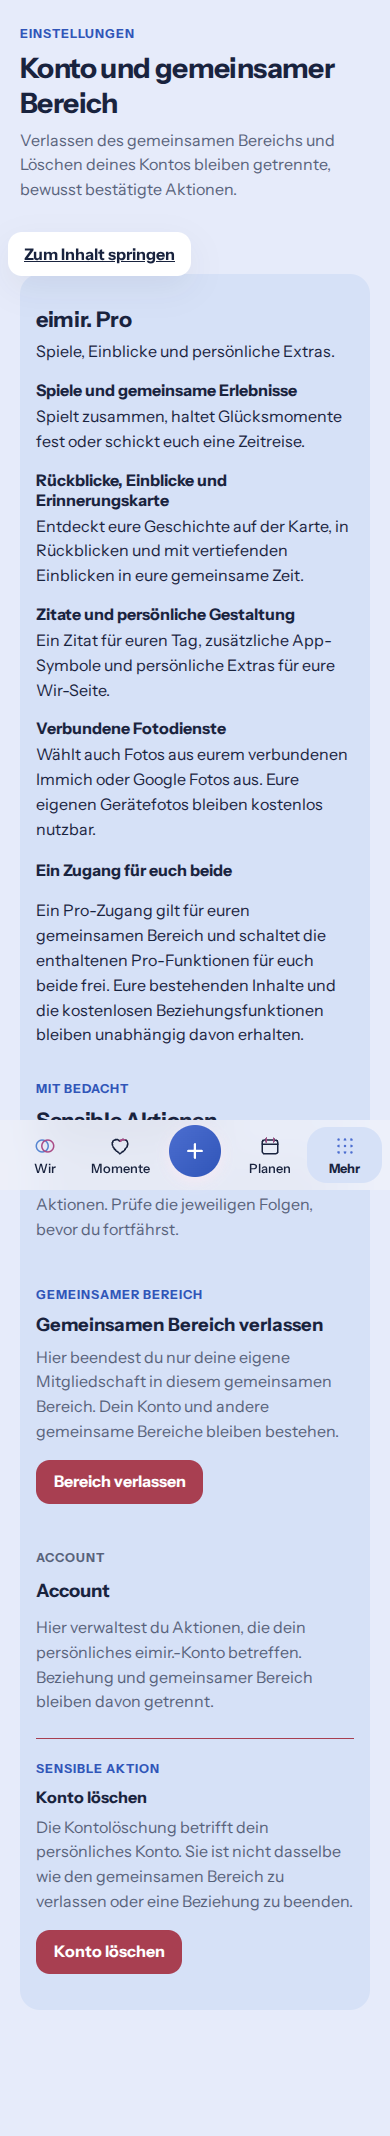
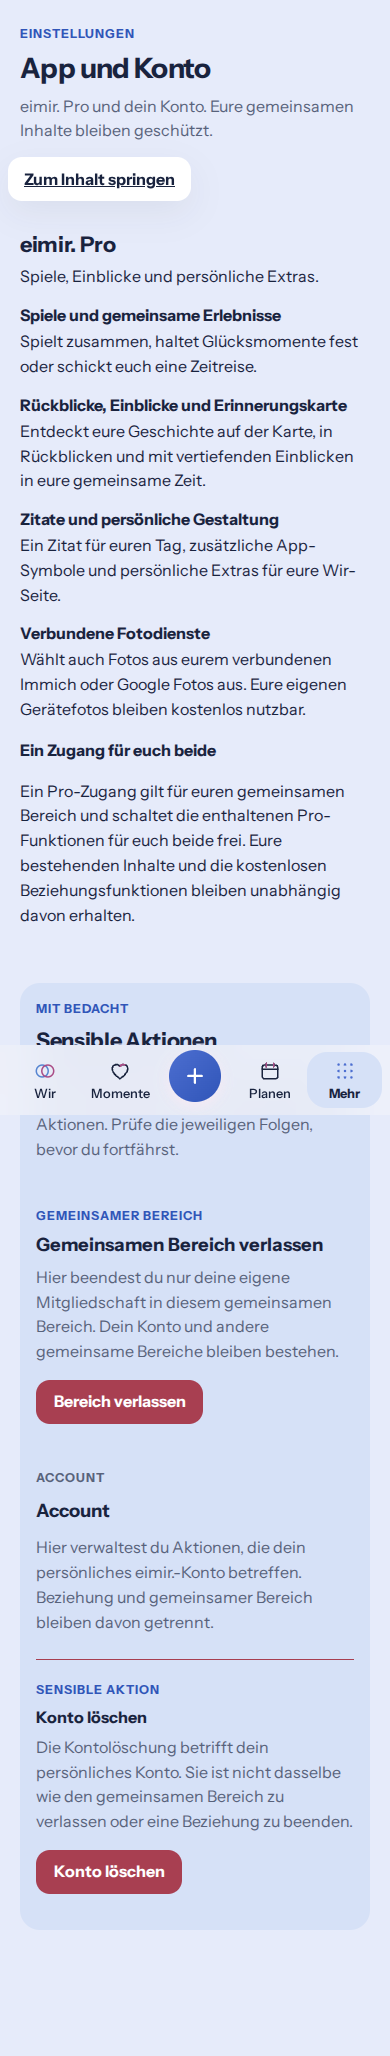
fix: align account presentation and browser gates
Separate Pro information from sensitive account actions, use the App and Account category label, emit formatter-compatible map tokens and assert all three peer modes. Refs #1570.

Changed region(s): [[0.0, 0.0, 0.8923, 0.9339], [0.8308, 0.5292, 0.9231, 0.5603]]

diff --git a/web/src/components/SettingsPage.tsx b/web/src/components/SettingsPage.tsx
@@ -230,36 +230,38 @@ export function SettingsPage(props: SettingsPageProps) {
     );
   } else if (categoryId === 'account') {
     categoryContent = (
-      <section
-        id="settings-account"
-        className="settings-category-content settings-sensitive-zone"
-        aria-labelledby="settings-sensitive-heading"
-      >
+      <div className="settings-category-content">
         <ProInformationPanel />
-        <div className="settings-sensitive-head">
-          <p className="eyebrow">
-            {t('profileIdentity.settingsSensitiveEyebrow')}
-          </p>
-          <h2 id="settings-sensitive-heading">
-            {t('profileIdentity.settingsSensitiveTitle')}
-          </h2>
-          <p>{t('profileIdentity.settingsSensitiveIntro')}</p>
-        </div>
-        <div className="settings-sensitive-grid">
-          <SpaceOffboardingPanel
-            spacesApi={spacesApi}
-            spaceId={props.spaceId}
-            demoMode={demoMode}
-            onOpenDataExport={openDataCategory}
-          />
-          <AccountSettingsPanel
-            apiBaseUrl={props.apiBaseUrl}
-            accessToken={props.accessToken}
-            demoMode={demoMode}
-            onOpenDataExport={openDataCategory}
-          />
-        </div>
-      </section>
+        <section
+          id="settings-account"
+          className="settings-sensitive-zone"
+          aria-labelledby="settings-sensitive-heading"
+        >
+          <div className="settings-sensitive-head">
+            <p className="eyebrow">
+              {t('profileIdentity.settingsSensitiveEyebrow')}
+            </p>
+            <h2 id="settings-sensitive-heading">
+              {t('profileIdentity.settingsSensitiveTitle')}
+            </h2>
+            <p>{t('profileIdentity.settingsSensitiveIntro')}</p>
+          </div>
+          <div className="settings-sensitive-grid">
+            <SpaceOffboardingPanel
+              spacesApi={spacesApi}
+              spaceId={props.spaceId}
+              demoMode={demoMode}
+              onOpenDataExport={openDataCategory}
+            />
+            <AccountSettingsPanel
+              apiBaseUrl={props.apiBaseUrl}
+              accessToken={props.accessToken}
+              demoMode={demoMode}
+              onOpenDataExport={openDataCategory}
+            />
+          </div>
+        </section>
+      </div>
     );
   }
 

diff --git a/web/e2e/tests/story-discover-tapestry.spec.ts b/web/e2e/tests/story-discover-tapestry.spec.ts
@@ -4,6 +4,7 @@ import fs from 'node:fs';
 import AxeBuilder from '@axe-core/playwright';
 import { expect, type Page, test } from '@playwright/test';
 import de from '../../src/i18n/locales/de';
+import memoryMap from '../../src/i18n/locales/memoryMap';
 import sensitiveMedia from '../../src/i18n/locales/sensitiveMedia';
 import sharedPhotos from '../../src/i18n/locales/sharedPhotos';
 import { mockEmptyPartnerNickname } from '../support/partnerNickname';
@@ -668,7 +669,10 @@ test('Momente browse layer keeps four structural destinations compact and second
     browse.getByRole('link', { name: de.story.browseYears }),
   ).toHaveAttribute('href', '/story/years');
 
-  await expect(page.getByRole('tab')).toHaveCount(2);
+  await expect(page.getByRole('tab')).toHaveCount(3);
+  await expect(
+    page.getByRole('tab', { name: memoryMap.entry, exact: true }),
+  ).toHaveAttribute('aria-selected', 'false');
   await expect(
     page.getByRole('tab', { name: de.story.tabTimeline, exact: true }),
   ).toHaveAttribute('aria-selected', 'true');

diff --git a/web/src/components/MemoryMapPage.test.tsx b/web/src/components/MemoryMapPage.test.tsx
@@ -70,18 +70,16 @@ describe('Pro memory map', () => {
   it('keeps photo failures browseable with the shared preview fallback', async () => {
     const load = vi.fn().mockRejectedValue(new Error('Image unavailable'));
     const view = setup(
-      vi
-        .fn()
-        .mockResolvedValue({
-          items: [
-            {
-              ...item,
-              previewAttachmentId: 'photo',
-              previewIsSensitive: false,
-            },
-          ],
-          nextCursor: null,
-        }),
+      vi.fn().mockResolvedValue({
+        items: [
+          {
+            ...item,
+            previewAttachmentId: 'photo',
+            previewIsSensitive: false,
+          },
+        ],
+        nextCursor: null,
+      }),
       load,
     );
     await screen.findByRole('button', { name: 'Lake · 1 Erinnerung' });

diff --git a/web/src/i18n/locales/profileIdentity.ts b/web/src/i18n/locales/profileIdentity.ts
@@ -143,9 +143,9 @@ const profileIdentity = {
   settingsData: 'Daten und Portabilität',
   settingsDataIntro:
     'Exportiere deine Daten oder importiere unterstützte Inhalte mit den bestehenden Prüfungen.',
-  settingsAccount: 'Konto und gemeinsamer Bereich',
+  settingsAccount: 'App und Konto',
   settingsAccountIntro:
-    'Verlassen des gemeinsamen Bereichs und Löschen deines Kontos bleiben getrennte, bewusst bestätigte Aktionen.',
+    'eimir. Pro und dein Konto. Eure gemeinsamen Inhalte bleiben geschützt.',
   settingsBackToMore: 'Zurück zu Mehr',
   settingsBackToIndex: 'Zurück zu Einstellungen',
   settingsSensitiveEyebrow: 'Mit Bedacht',

diff --git a/web/src/design/product-roles.css b/web/src/design/product-roles.css
@@ -35,8 +35,8 @@
   --media-overlay-backdrop-blur: 8px;
   --navigation-surface-opacity: 72%;
   --navigation-backdrop-blur: 24px;
-  --map-dark-tile-filter:
-    invert(1) hue-rotate(180deg) brightness(0.85) saturate(0.7);
+  --map-dark-tile-filter: invert(1) hue-rotate(180deg) brightness(0.85)
+    saturate(0.7);
   --sensitive-media-blur: 12px;
   --radius-media: 1rem;
   --radius-content: 1.25rem;

diff --git a/docs/product/design/evidence/journal-map-polish/README.md b/docs/product/design/evidence/journal-map-polish/README.md
@@ -48,7 +48,7 @@ provider are not claimed.
   task-origin allowlisting, held-route keyboard behavior and comment ownership.
 - Browser journeys: four new relationship-surface cases; six map cases across
   Compact/Expanded, Light/Dark and 320 px large text; 17 retained retrospective
-  and comment create/offline cases passed. No test retries, delays or relaxed
+  and comment create/offline cases passed. No local test retries, delays or relaxed
   assertions. The old avatar/two-mode/profile-Pro assertions were updated for
   the explicit Product Owner decision. Ambiguous map test selectors now scope
   the equivalent location list because map markers have proper accessible names.
@@ -66,6 +66,16 @@ provider are not claimed.
   truncated in this environment; an initial serverless single-process launch
   closed later contexts. Final runs use fresh standard multiprocess contexts,
   with ordinary browser security settings and no repository browser-pin changes.
+
+The first uploaded CI run found two formatter mismatches (the generated CSS
+function-list wrap and a mock chain), plus one stale browser assertion expecting
+two peer modes. The ordinary CI test retry reproduced that obsolete assertion.
+The adapter now emits formatter-compatible CSS, the mock is canonicalized and
+the assertion explicitly requires all three modes. Full format/token checks,
+30 focused settings/map/navigation cases, both compact browse/reflow browser
+cases and the Pro destination browser case pass on the correction. Pro
+information is visually separated from sensitive actions and the category uses
+the requested App and Account label. No CI job/workflow is manually retried.
 
 CI status on the actual pushed commit is recorded in PR #1568. The PR stays draft;
 this task does not merge or publish a release.
